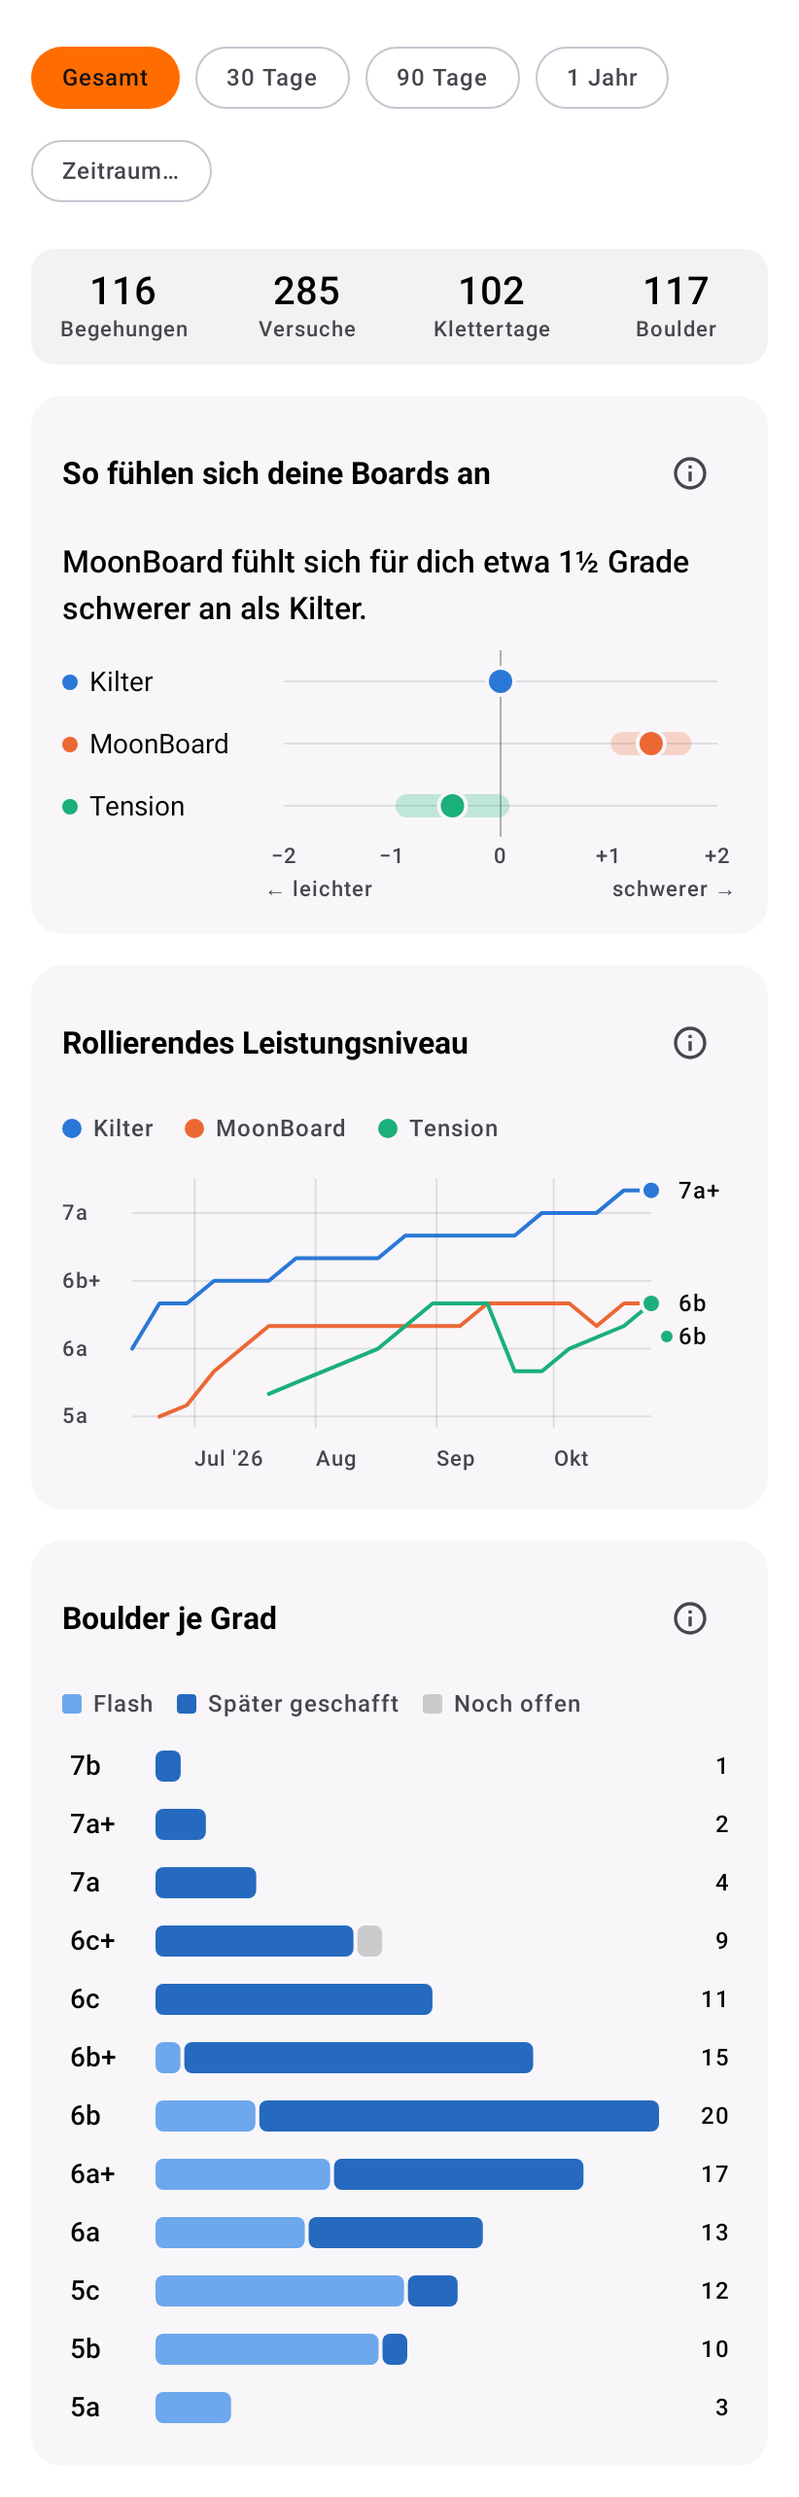
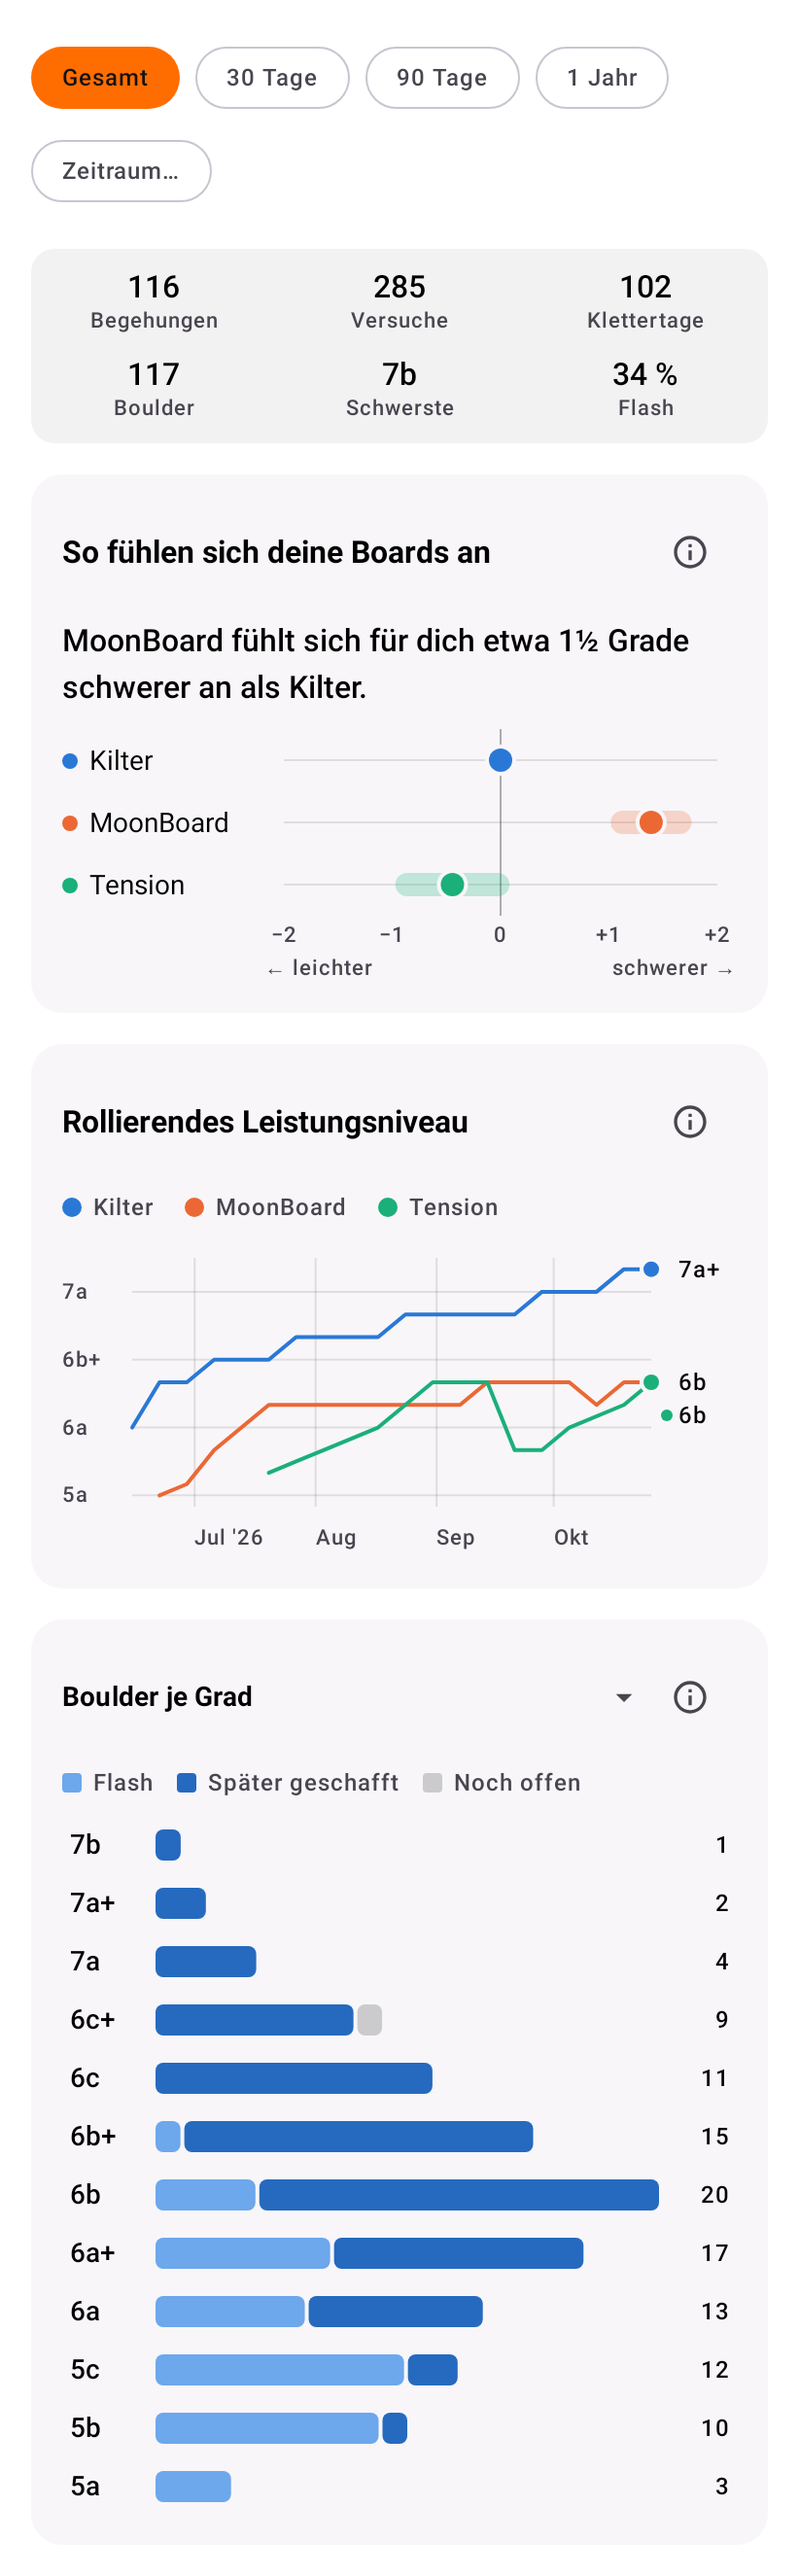
feat-0.2.5-analytics: 0.2.4 figures back, climbing days per week, six period numbers

diff --git a/feat-0.2.5-analytics/2026-11-01-statistics-highlights.md b/feat-0.2.5-analytics/2026-11-01-statistics-highlights.md
@@ -2,9 +2,26 @@
 
 Room: #feat-0.2.5-analytics · issue [#44](https://github.com/CruxCoach/CruxCoach/issues/44) · draft pull request [#48](https://github.com/CruxCoach/CruxCoach/pull/48)
 
-**Third version.** The first version of this report showed the new elements the maintainer chose from the [ideas](2026-11-01-stats-ideas.md): at a glance, milestones, how your boards feel, tries until the send and the session recap. The maintainer then asked to fit them into the existing statistics so that nothing is shown twice. This version shows the result: one overview at the top of the logbook, and statistics where every number and chart appears once.
+**Fourth version.** The first version of this report showed the new elements the maintainer chose from the [ideas](2026-11-01-stats-ideas.md): at a glance, milestones, how your boards feel, tries until the send and the session recap. The maintainer then asked to fit them into the existing statistics so that nothing is shown twice: one overview at the top of the logbook, and statistics where every number and chart appears once. That first cleanup dropped some figures 0.2.4 showed; this version brings all of them back inside the same cards, adds climbing days per week over time, and shows climbing days, sends and the hardest grade side by side in the overview.
 
 The renders come from the design test with a made-up logbook on three boards, on a German phone, dark and light. The phone section shows the same build on the test phone.
+
+## What 0.2.4 showed, and where it is now
+
+Checked against the 0.2.4 code. Nothing is gone; some numbers moved into another card.
+
+| 0.2.4 | Now |
+|---|---|
+| Best grade, sends, tries, climbing days, distinct problems, flash rate (logbook tiles) | The six period numbers at the top of the statistics, with changes; the overview shows climbing days, sends and hardest of the last 30 days |
+| Hardest flash, sends per day, sessions per week, week streak (records row) | Overview tiles and chips; biggest day and weeks in a row as milestones |
+| Board comparison (sends, best grade) | Board chips |
+| Rolling performance level | Progress, one line per board |
+| Grade pyramid | Grades: sends per grade, in the intensity-zone colours |
+| Outcomes by grade, flash donut | Grades: problems per grade |
+| Sent climbs per grade | The two grades views side by side |
+| Log entries over time, weekly volume | Activity: sends over time, entries over time |
+| Activity calendar, angles, hold heatmap | Unchanged |
+| Period comparison | The changes under the period numbers |
 
 ## What was shown twice
 
@@ -15,13 +32,14 @@ The renders come from the design test with a made-up logbook on three boards, on
 | Rolling level and hardest new send per month | One progress chart, one line per board |
 | Activity calendar, log entries over time, weekly volume | One activity card: calendar or entries per week |
 | Board chips and the tappable comparison table | Board chips, each with its sends |
-| Records row and period comparison | The overview card and the milestones |
+| Records row and period comparison | The overview card, the milestones and the changes under the period numbers |
 
 ## The logbook top
 
 ![Logbook top, dark](2026-11-01-glance-top.png)
 
-- One card instead of six tiles: the hardest send and hardest flash, the last 30 days against the 30 days before, and the milestones as small chips (weeks in a row, new grades, 50/100/250… sends, biggest day).
+- One card instead of six tiles: the hardest send and hardest flash, then the last 30 days against the 30 days before: climbing days, sends and the hardest grade side by side, each with its change.
+- Below, small chips: climbing days per week (the average of the last eight weeks) and the milestones (weeks in a row, new grades, 50/100/250… sends, biggest day).
 - It always covers the whole logbook and every board. Tapping it opens the statistics; the ⓘ explains the numbers.
 - The period chips of the list moved into the logbook filter, next to result, board and angle. The list and the statistics no longer share a period.
 - Each day in the list has a recap button next to its date.
@@ -31,15 +49,16 @@ The renders come from the design test with a made-up logbook on three boards, on
 ![Statistics, upper half, dark](2026-11-01-sheet-top.png)
 ![Statistics, lower half, dark](2026-11-01-sheet-bottom.png)
 
-1. **Filters:** the period, then the board chips (only with more than one board). Each board chip shows its sends in the period, so the chips are the comparison of how much you climb where.
-2. **The period in four numbers:** sends, tries, climbing days, problems.
+1. **Filters:** the period, then the board chips (only with more than one board). Each board chip shows its sends and best grade in the period ("Kilter 11 · 7a"), so the chips are the comparison of the boards.
+2. **The period in six numbers**, two rows of three: sends, tries and climbing days; problems, the hardest grade and the flash rate. For 30 or 90 days, a year or a custom range, each shows its change against the period of the same length before (the hardest grade in grade steps). These are the six tiles of the 0.2.4 logbook top.
 3. **How your boards feel** (only with enough data): one sentence and a dot per board on a scale of grades.
 4. **Progress:** the rolling performance level, one line per board when you look at all boards together, each line ending in its current grade.
-5. **Problems per grade:** each problem once, by its best result: flashed, sent later, or not sent yet. Tap a grade for its numbers.
+5. **Grades**, two views: problems per grade, each problem once by its best result (flashed, sent later, not yet sent); or sends per grade, every send with its repeats, in the intensity-zone colours (warm-up, optimal, limit). Tap a grade for its numbers.
 6. **Tries:** until the send (flash, 2, 3, 4–5, 6+ per board), per grade (one bar per board), per month (one line per board).
-7. **Activity:** the calendar, or entries per week by grade band on a time axis, so weeks off show as gaps.
+7. **Activity**, four views: the calendar; climbing days per week (weeks off as empty columns, over more than half a year the weekly average of each month, with the period's average as a dashed line); entries over time; sends over time. The last two are stacked by grade band, per week or per month for long periods.
 
-![Entries per week, dark](2026-11-01-weekly.png)
+![Period numbers with changes, sends per grade](2026-11-01-period-and-grade-sends.png)
+![Climbing days per week and sends over time, dark](2026-11-01-weekly.png)
 
 8. **Angles** and **holds**, as before.
 
@@ -82,6 +101,7 @@ Test build 5 (commit 7d153ec9) on the test phone, with the small made-up logbook
 - How your boards feel stays hidden here, because MoonBoard has only 2 sent problems. That is intended.
 - With only two problems, MoonBoard's bar in "tries until the send" is hollow, as the legend says.
 - "Share as image" opens the phone's share menu with the card as its preview.
+- These screenshots show build 5, before the 0.2.4 figures came back; the renders above show the current state.
 - Fixed after this check, in the next build: the overview appeared a moment after the list and pushed it down in one jump (it now grows in); the period chips in the logbook filter were orange unlike the other filter chips; the activity calendar started with empty months before the first entry.
 - Not checked on the phone: the end-of-session summary with the card (only in the renders), and the light theme (only in the renders).
 
@@ -98,6 +118,6 @@ None of these is built. Each could go into a place that already exists, so no ne
 
 ## Tests
 
-- At a glance, milestones and the recap (11 tests), the board feel and the tries buckets (5), stats across boards (9), the statistics computation (46), the statistics sheet with its info and activity selector (1), board colours (3): all pass locally. CI runs the full suite.
+- At a glance, milestones and the recap (11 tests), the board feel and the tries buckets (5), stats across boards (9), the statistics computation (51, including the period before, climbing days per week, monthly buckets and sends per grade), the statistics sheet with its info and activity selector (1), board colours (3): all pass locally. CI runs the full suite.
 - The removed charts took their tests with them. The tests on flash detection now check the grades chart instead of the donut.
 - The design test renders all pictures above; CI skips it.
